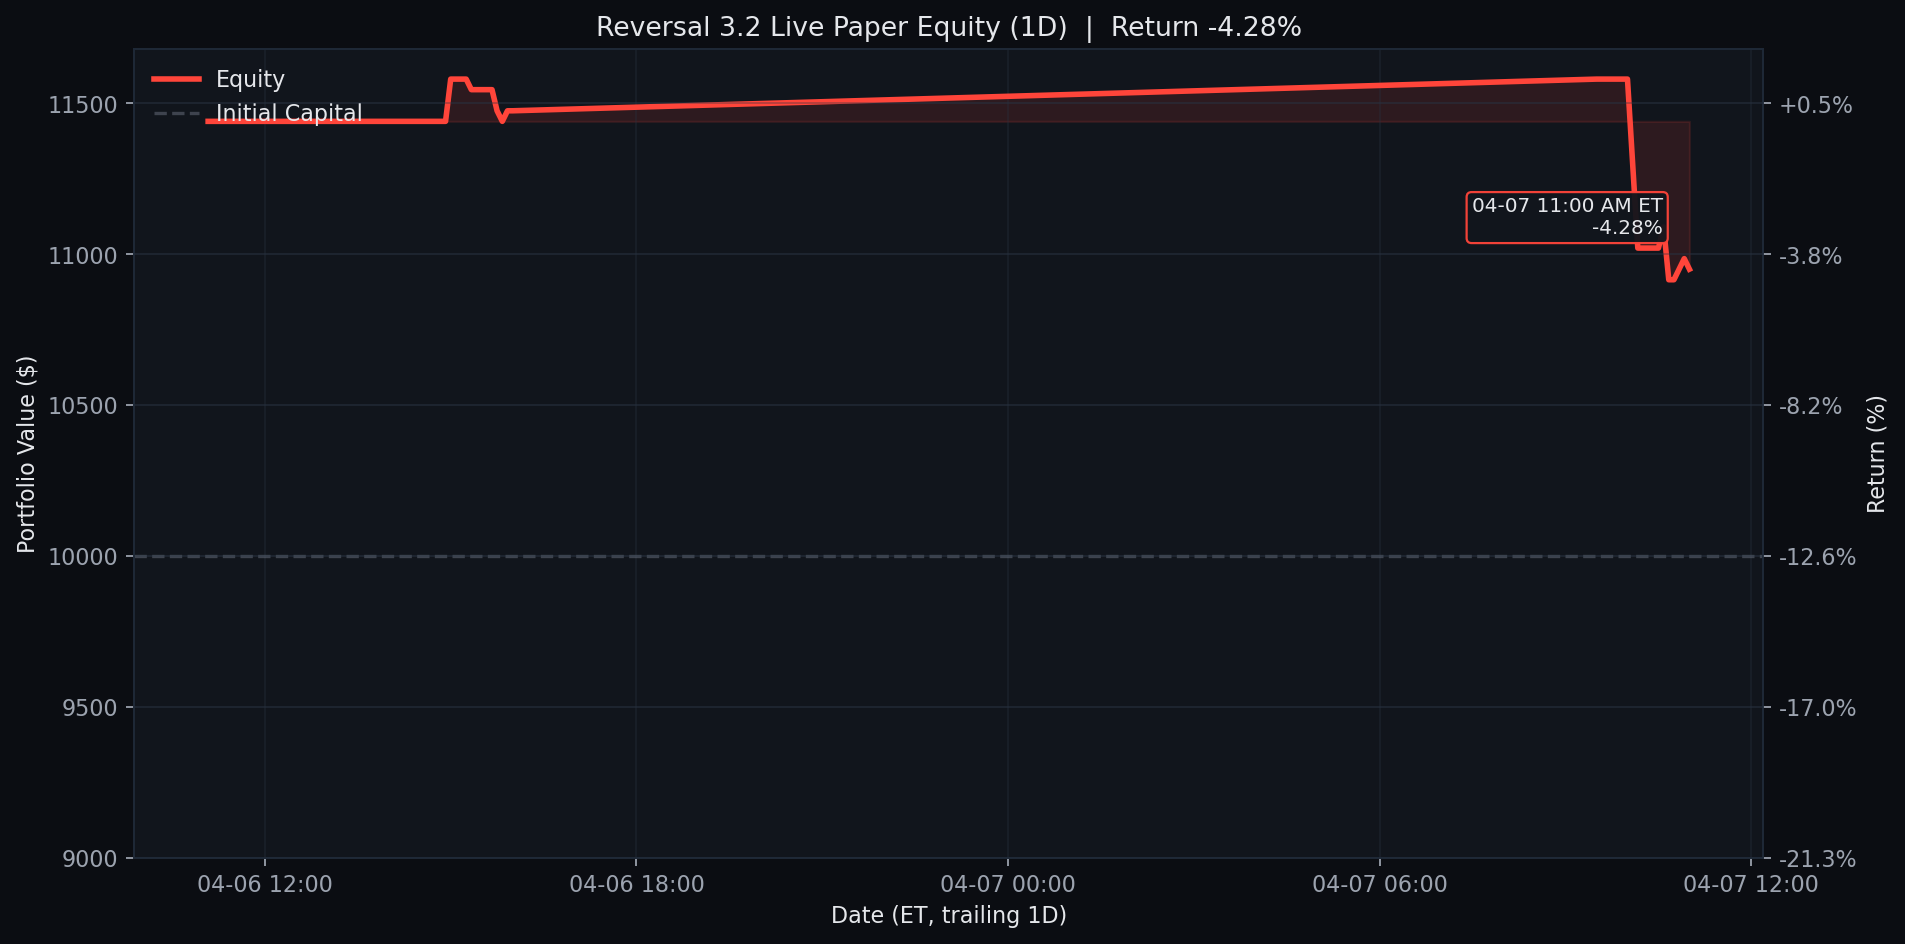
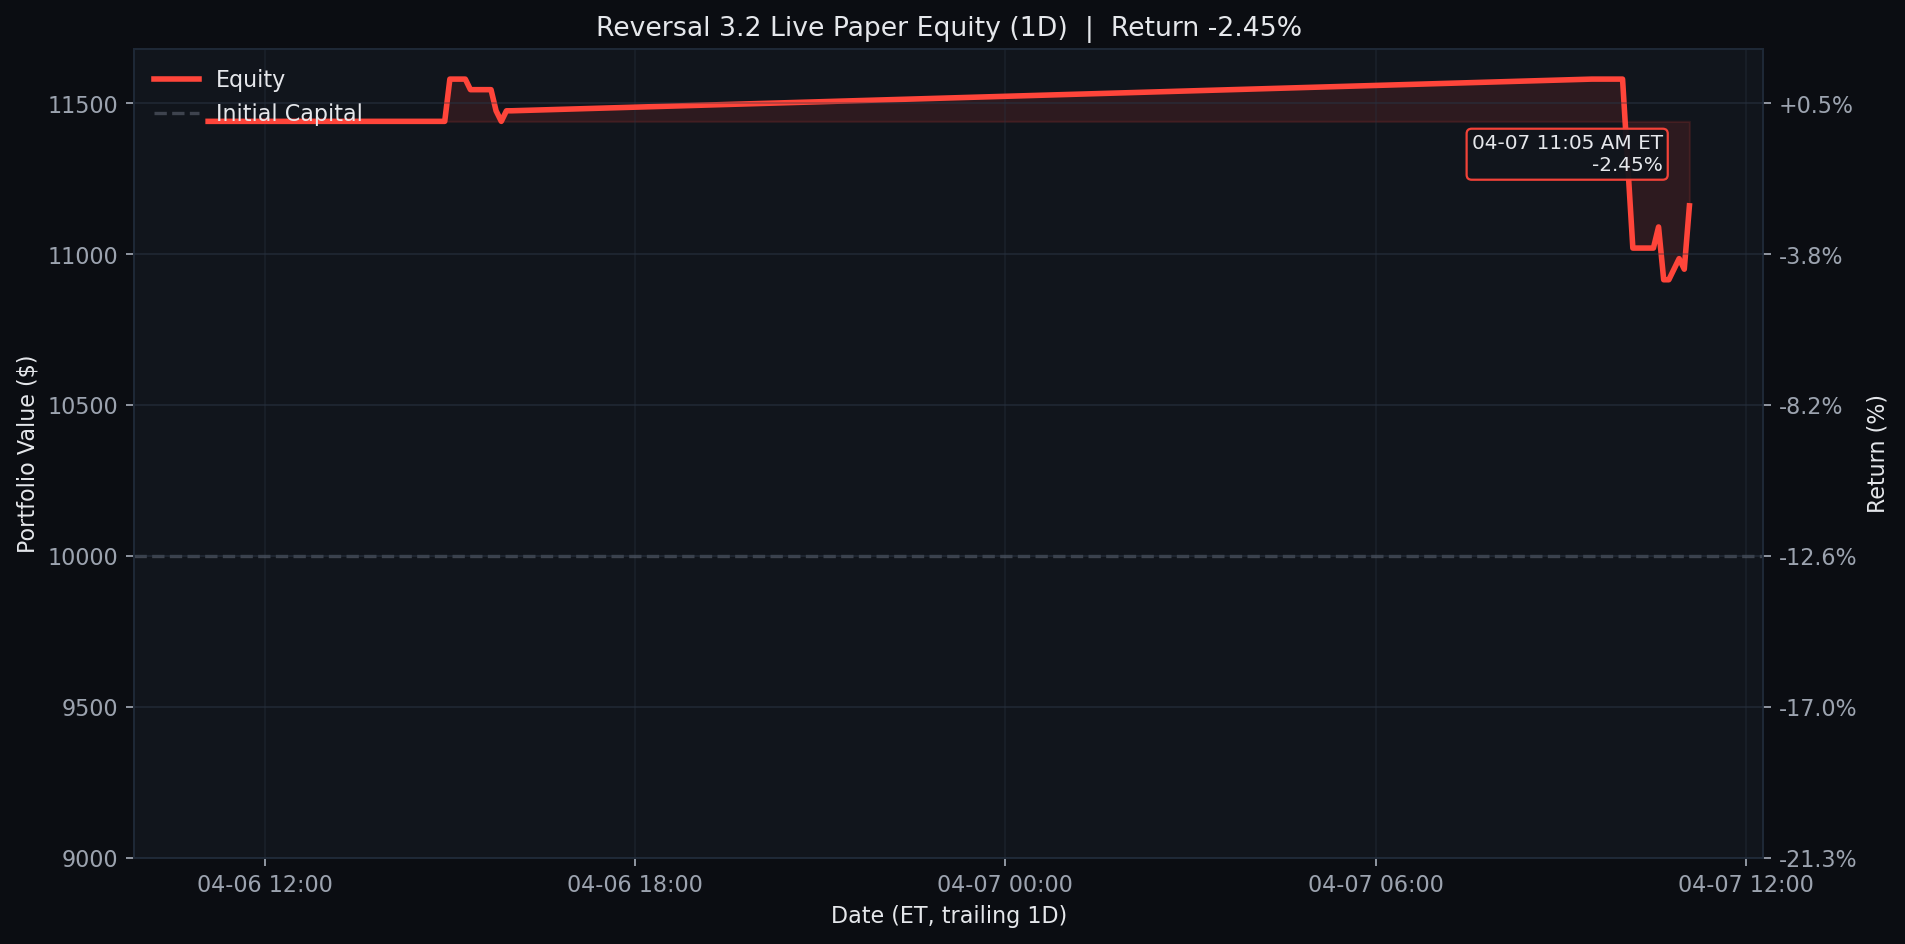
Update Reversal 3.2 live paper test 2026-04-07 11:05 ET

diff --git a/results/reversal_3_2_live/README.md b/results/reversal_3_2_live/README.md
@@ -1,6 +1,6 @@
 # Reversal 3.2 Live Paper Test
 
-Last updated (ET): `2026-04-07 11:00:05 EDT`
+Last updated (ET): `2026-04-07 11:05:05 EDT`
 Last processed slot: `manage_1100`
 
 ## Active Configuration
@@ -20,16 +20,16 @@ Last processed slot: `manage_1100`
 ## Portfolio Snapshot
 
 - Cash: `$6,260.00`
-- Equity: `$10,950.00`
+- Equity: `$11,160.00`
 - Realized PnL: `$1,440.00`
-- Unrealized PnL: `$-490.00`
+- Unrealized PnL: `$-280.00`
 - Open positions: `1`
 
 ## Open Positions
 
 ```text
 ticker    contract_symbol entry_trade_date  business_days_held  contracts  cash_spent  current_position_value  entry_option_price  current_option_price  entry_spot  current_spot  unrealized_pnl  unrealized_return_pct  success_rate  matched_signals  current_drop_pct  entry_iv_pct  current_iv_pct  rolling_sigma_20d_pct
-   HON HON260515C00230000       2026-04-06                   1          7      5180.0                  4690.0                 7.4                   6.7      227.61        224.15          -490.0                  -9.46         100.0               20               0.8         28.89           32.23                  20.57
+   HON HON260515C00230000       2026-04-06                   1          7      5180.0                  4900.0                 7.4                   7.0      227.61        223.65          -280.0                  -5.41         100.0               20               0.8         28.89           33.67                  20.57
 ```
 
 ## Today's Closed Trades (2026-04-07)
@@ -40,24 +40,25 @@ _None_
 
 ```text
 ticker  success_rate_%  matched_signals  current_drop_%  target_rebound_$  target_price  rolling_sigma_20d_%  call_candidate
-   WDC           97.30               37            0.86              1.82        303.37                83.06            True
-  REGN           95.65               23            1.45              7.74        759.72                25.24            True
-  MRVL           95.00               20            2.85              2.18        108.57                70.84            True
-  NVDA           94.44               18            2.03              2.52        176.56                33.70            True
-  FAST           90.00               30            0.83              0.27         45.76                20.98            True
-  UPRO           90.00               20            3.07              2.16         99.81                53.86            True
+   WDC           97.14               35            1.49              3.17        302.79                83.06            True
+  REGN           95.65               23            1.36              7.24        759.94                25.24            True
+  MRVL           95.00               20            3.08              2.36        108.50                70.84            True
+  SBUX           94.44               36            0.57              0.38         94.62                40.32            True
+  NVDA           94.12               17            2.23              2.77        176.45                33.70            True
   ORLY           89.74               39            0.60              0.38         91.97                23.11            True
-  MPWR           89.29               28            1.85             15.32       1173.47                51.99            True
-  DXCM           89.13               46            0.52              0.23         63.11                29.92            True
-  DDOG           88.89               27            1.86              1.52        115.85                49.06            True
-   CSX           88.89               27            0.54              0.16         41.41                24.91            True
-  CDNS           88.57               35            1.46              2.86        278.17                25.26            True
+  DXCM           88.89               45            0.75              0.33         63.07                29.92            True
+  PCAR           88.89               36            0.76              0.63        118.05                21.97            True
+  DDOG           88.89               27            2.18              1.78        115.74                49.06            True
+  FAST           88.89               27            0.89              0.29         45.75                20.98            True
+  MPWR           88.46               26            2.04             16.82       1172.82                51.99            True
+  GILD           88.46               26            0.72              0.71        139.83                20.18            True
 ```
 
 ## Recent Events
 
 ```text
                     timestamp_et        slot   event_type                          detail
+2026-04-07T11:05:05.886675-04:00 manage_1100 slot_skipped {"reason": "already_processed"}
 2026-04-07T11:00:05.892871-04:00 manage_1100 slot_skipped {"reason": "already_processed"}
 2026-04-07T10:55:05.886961-04:00 manage_1100 slot_skipped {"reason": "already_processed"}
 2026-04-07T10:40:05.892021-04:00 manage_1030 slot_skipped {"reason": "already_processed"}
@@ -67,7 +68,6 @@ ticker  success_rate_%  matched_signals  current_drop_%  target_rebound_$  targe
 2026-04-07T10:10:05.890428-04:00 manage_1000 slot_skipped {"reason": "already_processed"}
 2026-04-07T10:05:05.888815-04:00 manage_1000 slot_skipped {"reason": "already_processed"}
 2026-04-07T10:00:05.892155-04:00 manage_1000 slot_skipped {"reason": "already_processed"}
-2026-04-07T09:55:05.880017-04:00 manage_1000 slot_skipped {"reason": "already_processed"}
 ```
 
 ## Equity Curves
@@ -77,20 +77,20 @@ Each chart is generated from the same live equity series with no-lookahead marks
 <details>
 <summary><strong>1D</strong></summary>
 
-![Reversal 3.2 Live Equity 1D](../../assets/reversal_3_2_live_equity_1d.png?v=20260407110005)
+![Reversal 3.2 Live Equity 1D](../../assets/reversal_3_2_live_equity_1d.png?v=20260407110505)
 
 </details>
 
 <details open>
 <summary><strong>1W</strong></summary>
 
-![Reversal 3.2 Live Equity 1W](../../assets/reversal_3_2_live_equity.png?v=20260407110005)
+![Reversal 3.2 Live Equity 1W](../../assets/reversal_3_2_live_equity.png?v=20260407110505)
 
 </details>
 
 <details>
 <summary><strong>1M</strong></summary>
 
-![Reversal 3.2 Live Equity 1M](../../assets/reversal_3_2_live_equity_1m.png?v=20260407110005)
+![Reversal 3.2 Live Equity 1M](../../assets/reversal_3_2_live_equity_1m.png?v=20260407110505)
 
 </details>

diff --git a/README.md b/README.md
@@ -3,8 +3,8 @@
 <!-- reversal-3.2-live:start -->
 ## Reversal 3.2 Live Paper Test
 
-- Last updated (ET): `2026-04-07 11:00:05 EDT`
-- Equity: `$10,950.00` | Realized: `$1,440.00` | Unrealized: `$-490.00` | Open positions: `1`
+- Last updated (ET): `2026-04-07 11:05:05 EDT`
+- Equity: `$11,160.00` | Realized: `$1,440.00` | Unrealized: `$-280.00` | Open positions: `1`
 - Today closed trades: `0`
 - Current slot: `manage_1100`
 - Universe: `qqq_plus_leverage_etfs`
@@ -14,27 +14,27 @@
 
 ```text
 ticker    contract_symbol  contracts  cash_spent  current_position_value  current_option_price  unrealized_pnl  unrealized_return_pct  business_days_held
-   HON HON260515C00230000          7      5180.0                  4690.0                   6.7          -490.0                  -9.46                   1
+   HON HON260515C00230000          7      5180.0                  4900.0                   7.0          -280.0                  -5.41                   1
 ```
 
 <details>
 <summary><strong>1D</strong></summary>
 
-![Reversal 3.2 Live Equity 1D](assets/reversal_3_2_live_equity_1d.png?v=20260407110005)
+![Reversal 3.2 Live Equity 1D](assets/reversal_3_2_live_equity_1d.png?v=20260407110505)
 
 </details>
 
 <details open>
 <summary><strong>1W</strong></summary>
 
-![Reversal 3.2 Live Equity 1W](assets/reversal_3_2_live_equity.png?v=20260407110005)
+![Reversal 3.2 Live Equity 1W](assets/reversal_3_2_live_equity.png?v=20260407110505)
 
 </details>
 
 <details>
 <summary><strong>1M</strong></summary>
 
-![Reversal 3.2 Live Equity 1M](assets/reversal_3_2_live_equity_1m.png?v=20260407110005)
+![Reversal 3.2 Live Equity 1M](assets/reversal_3_2_live_equity_1m.png?v=20260407110505)
 
 </details>
 
